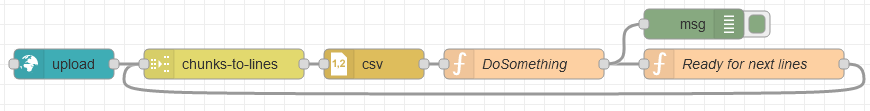
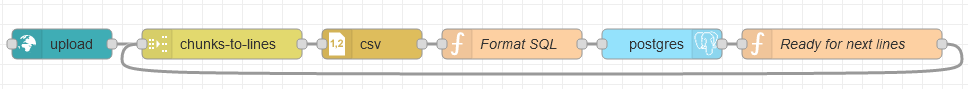
CSV to SQL documentation

diff --git a/chunks-to-lines.html b/chunks-to-lines.html
@@ -83,7 +83,7 @@
 		<dd>When the input is received as text, this parameter has no effect.</dd>
 		<dd>But when the input is received in binary form, this node will have to decode it to text.</dd>
 		<dd>To do that, the encoding of the original text must be specified (UTF-8, Windows-1252, UTF-16…).</dd>
-		<dd>If you do not know, leave it to the default UTF-8.</dd>
+		<dd>If you do not know, leave it to the default UTF-8. Windows-1252 requires Node.js with <a href="https://nodejs.org/api/util.html#util_whatwg_supported_encodings" rel="external">full ICU</a>.</dd>
 	</dl>
 
 	<h3>Backpressure / flow-control</h3>

diff --git a/README.md b/README.md
@@ -27,7 +27,8 @@ This node will output either one line at a time (when n=1 in corresponding optio
 
 The messages will contain updated sequence information in `msg.parts` and `msg.complete`.
 
-Example for CSV processing (splitting a large CSV file as smaller CSV chunks): [flow-csv.json](doc/flow-csv.json)
+Example for CSV processing (splitting a large CSV file as smaller CSV chunks) for mass insertion into a [PostgreSQL](https://www.npmjs.com/package/node-red-contrib-re-postgres) database,
+inserting many lines at a time to improve performances: [flow-csv.json](doc/flow-csv.json)
 
 ![Node-RED flow](doc/flow-csv.png)
 
@@ -43,7 +44,7 @@ Example for CSV processing (splitting a large CSV file as smaller CSV chunks): [
 * Text decoding (from binary)
 	* When the input is received as text, this parameter has no effect.
 	* But when the input is received in binary form, this node will have to decode it to text.
-	* To do that, the encoding of the original text must be specified (UTF-8, Windows-1252, UTF-16…).
+	* To do that, the encoding of the original text must be specified (UTF-8, Windows-1252, UTF-16…). Windows-1252 requires Node.js with [full ICU](https://nodejs.org/api/util.html#util_whatwg_supported_encodings).
 	* If you do not know, leave it to the default UTF-8.
 
 ## Backpressure
